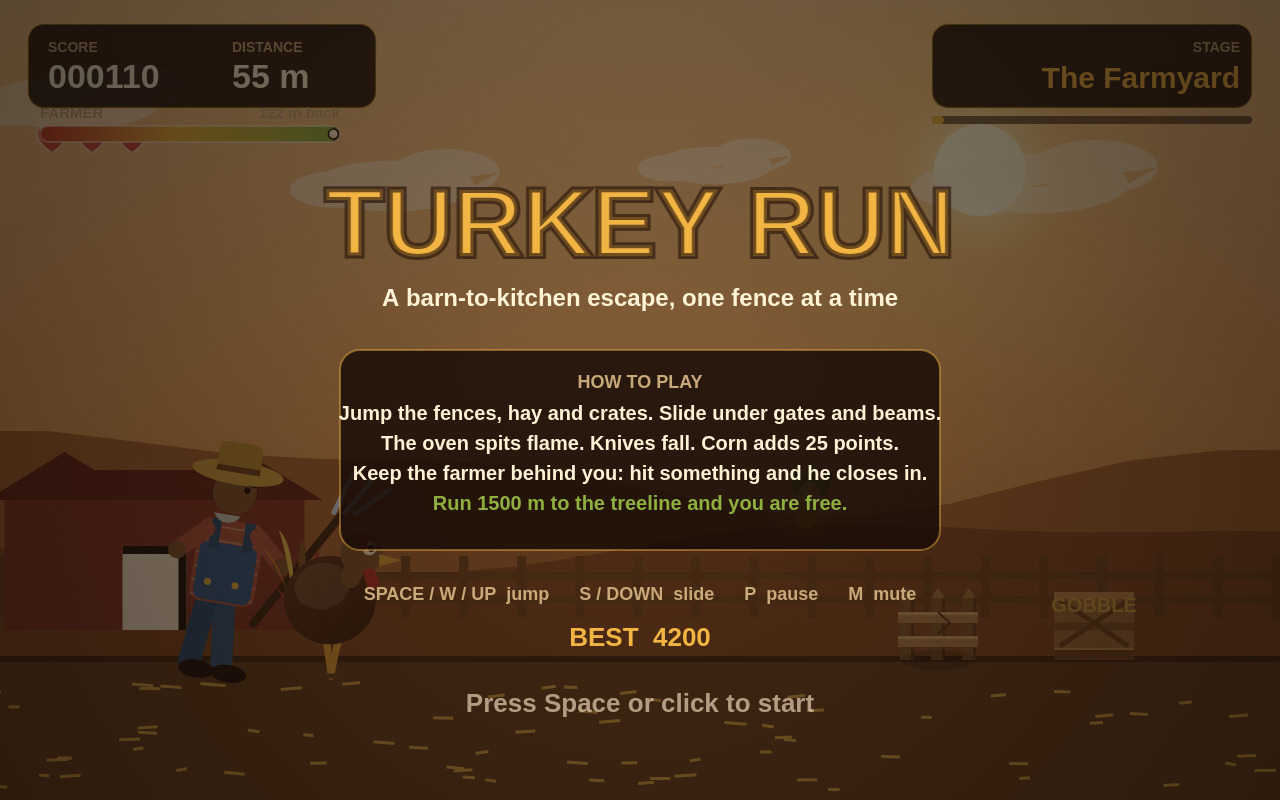
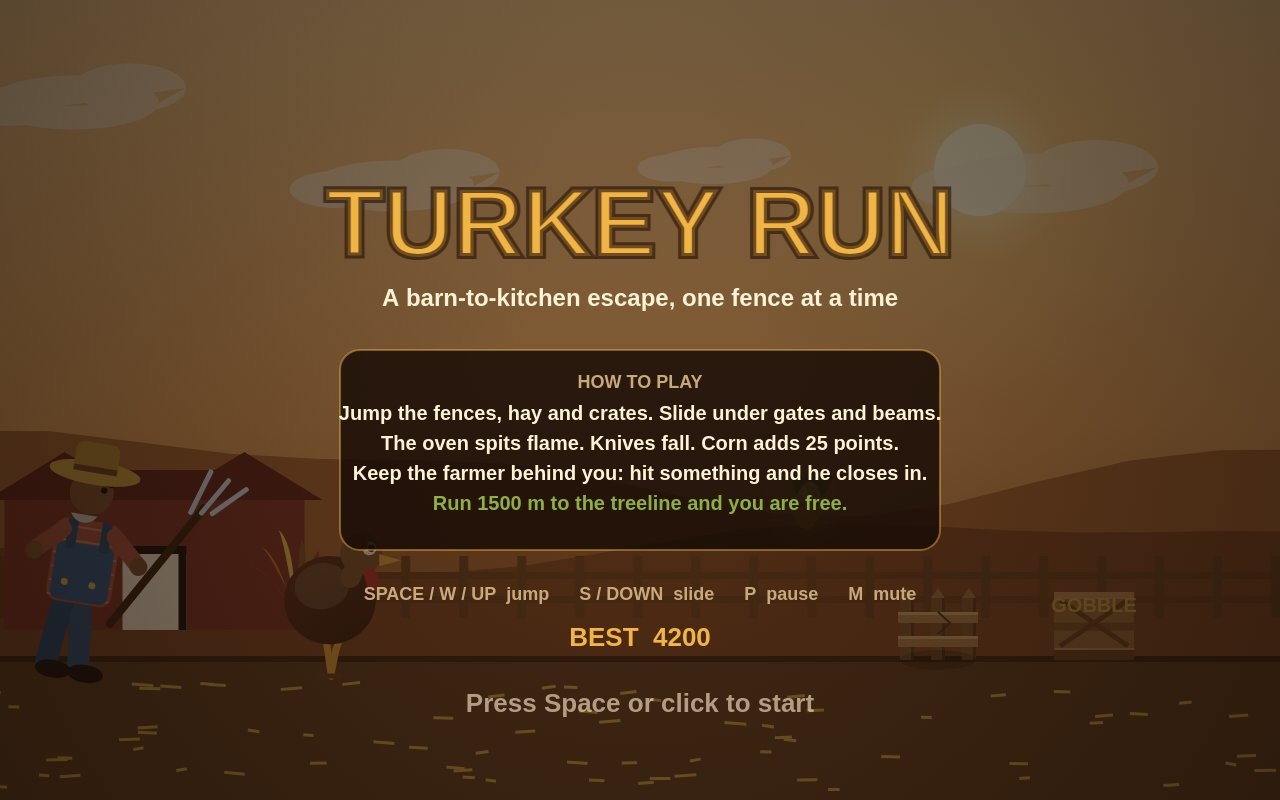
Polish v2: farmer separation, opaque title/outcome panels, ESCAPED scene

diff --git a/game/src/render.js b/game/src/render.js
@@ -393,7 +393,11 @@ export function drawTurkey(ctx, state) {
 export function drawFarmer(ctx, state) {
   const f = state.farmer;
   const gap = state.gap;
-  const fx = TURKEY.screenX - gap;
+  // gap is metres, not pixels: feeding it straight into fx let the farmer overlap the turkey at
+  // small gaps. Map it to a pixel offset with a floor (he stays visibly behind the tail fan and
+  // pitchfork reach) and a ceiling (he never slides off the left edge at the largest gap).
+  const pxGap = Math.min(265, Math.max(220, 150 + gap));
+  const fx = TURKEY.screenX - pxGap;
   const lean = 0.16 + f.lean * 0.24;
   const bob = Math.abs(Math.sin(f.stride)) * 4;
   const angry = f.angry > 0;
@@ -1027,10 +1031,10 @@ export function drawObstacles(ctx, state) {
 // Part 3: the readouts over the world and the four screens between runs.
 // ---------------------------------------------------------------------------------------------
 
-function panel(ctx, x, y, w, h, radius) {
+function panel(ctx, x, y, w, h, radius, alpha = 0.84) {
   // Opaque enough to stay legible on the kitchen's light tiled wall, where a 62% wash let the
   // tan background through and the muted HUD labels all but vanished.
-  ctx.fillStyle = 'rgba(24,13,6,0.84)';
+  ctx.fillStyle = `rgba(24,13,6,${alpha})`;
   ctx.beginPath();
   ctx.roundRect(x, y, w, h, radius);
   ctx.fill();
@@ -1155,7 +1159,8 @@ export function drawHud(ctx, state) {
   ctx.roundRect(barX, barY, Math.max(6, 320 * progress), 8, 4);
   ctx.fill();
 
-  if (state.stageBanner > 0) {
+  // The banner is an in-play cue only: at an outcome it would ghost through the CAUGHT/ESCAPED panel.
+  if (state.stageBanner > 0 && state.outcome === 0) {
     const a = Math.min(1, state.stageBanner);
     ctx.save();
     ctx.globalAlpha = a;
@@ -1231,7 +1236,7 @@ export function drawPaused(ctx) {
 
 export function drawCaught(ctx, state) {
   overlay(ctx, 0.7);
-  panel(ctx, W / 2 - 300, 200, 600, 380, 24);
+  panel(ctx, W / 2 - 300, 200, 600, 380, 24, 1);
   label(ctx, 'CAUGHT!', W / 2, 280, 72, PALETTE.danger, 'center');
   label(ctx, 'The farmer has you by the tail feathers.', W / 2, 320, 22, PALETTE.text, 'center');
 
@@ -1246,7 +1251,7 @@ export function drawCaught(ctx, state) {
 
 export function drawEscaped(ctx, state) {
   overlay(ctx, 0.62);
-  panel(ctx, W / 2 - 300, 180, 600, 400, 24);
+  panel(ctx, W / 2 - 300, 180, 600, 400, 24, 1);
 
   const confetti = 40;
   for (let i = 0; i < confetti; i += 1) {

diff --git a/game/src/shots.js b/game/src/shots.js
@@ -183,6 +183,9 @@ function sceneKitchen(run) {
     stageAtDoor(run, kitchen, offset);
     play(run, 10, goodPilot);
   }
+  // An oven already half off the left edge reads as scenery, and it stops ensureShape from staging
+  // a full one; drop anything that far behind the turkey so the hazard is properly in frame.
+  run.state.obstacles = run.state.obstacles.filter((ob) => ob.shape !== 'oven' || ob.x > 220);
   dress(run, 2);
   ensureShape(run, 'oven', 820);
   return { screen: 'play', best: bestFor(run, 8200) };
@@ -217,7 +220,28 @@ function sceneEnd(run) {
   return { screen: 'caught', best: bestFor(run, 2100) };
 }
 
-const SCENES = { start: sceneStart, play: scenePlay, kitchen: sceneKitchen, end: sceneEnd };
+/**
+ * The treeline: a clean run all the way to the finish. Knives and ovens can still end a good run
+ * short, so the last stretch is taken again from the kitchen door, a little further along each time,
+ * where the spawns fall differently; failing that, the outcome is forced the way sceneEnd does it.
+ */
+function sceneEscaped(run) {
+  run.reset();
+  play(run, 240, goodPilot, 1500);   // RULES.finishMetres: the step that crosses it ends the run
+  const kitchen = STAGES[2].start;
+  for (const offset of [440, 452, 464]) {
+    if (run.state.outcome === OUTCOME_ESCAPED) break;
+    stageAtDoor(run, kitchen, offset);
+    // The farmer starts this leg as far back as the stage allows, so the last metres still survive.
+    run.state.gap = STAGES[2].gapCeiling;
+    play(run, 240, goodPilot, 1500);
+  }
+  if (run.state.outcome !== OUTCOME_ESCAPED) Object.assign(run.state, { outcome: OUTCOME_ESCAPED, metres: 1500, lives: Math.max(1, run.state.lives) });
+  dress(run);
+  return { screen: 'escaped', best: bestFor(run, 9000) };
+}
+
+const SCENES = { start: sceneStart, play: scenePlay, kitchen: sceneKitchen, end: sceneEnd, escaped: sceneEscaped };
 
 /**
  * Stage `name` on `run` (from createRun(seed)) and report the screen main.js should paint plus a

diff --git a/game/src/main.js b/game/src/main.js
@@ -62,7 +62,8 @@ function paint() {
   drawFarmer(ctx, state);
   drawTurkey(ctx, state);
   ctx.restore();
-  drawHud(ctx, state);
+  // The title sits over a live farmyard by design, but the HUD must not ghost through its overlay.
+  if (screen !== 'title') drawHud(ctx, state);
   // The screens pulse their prompts off the page clock; the run's own time is left alone.
   const view = { ...state, time: clock };
   if (screen === 'title') drawTitle(ctx, view, best);
